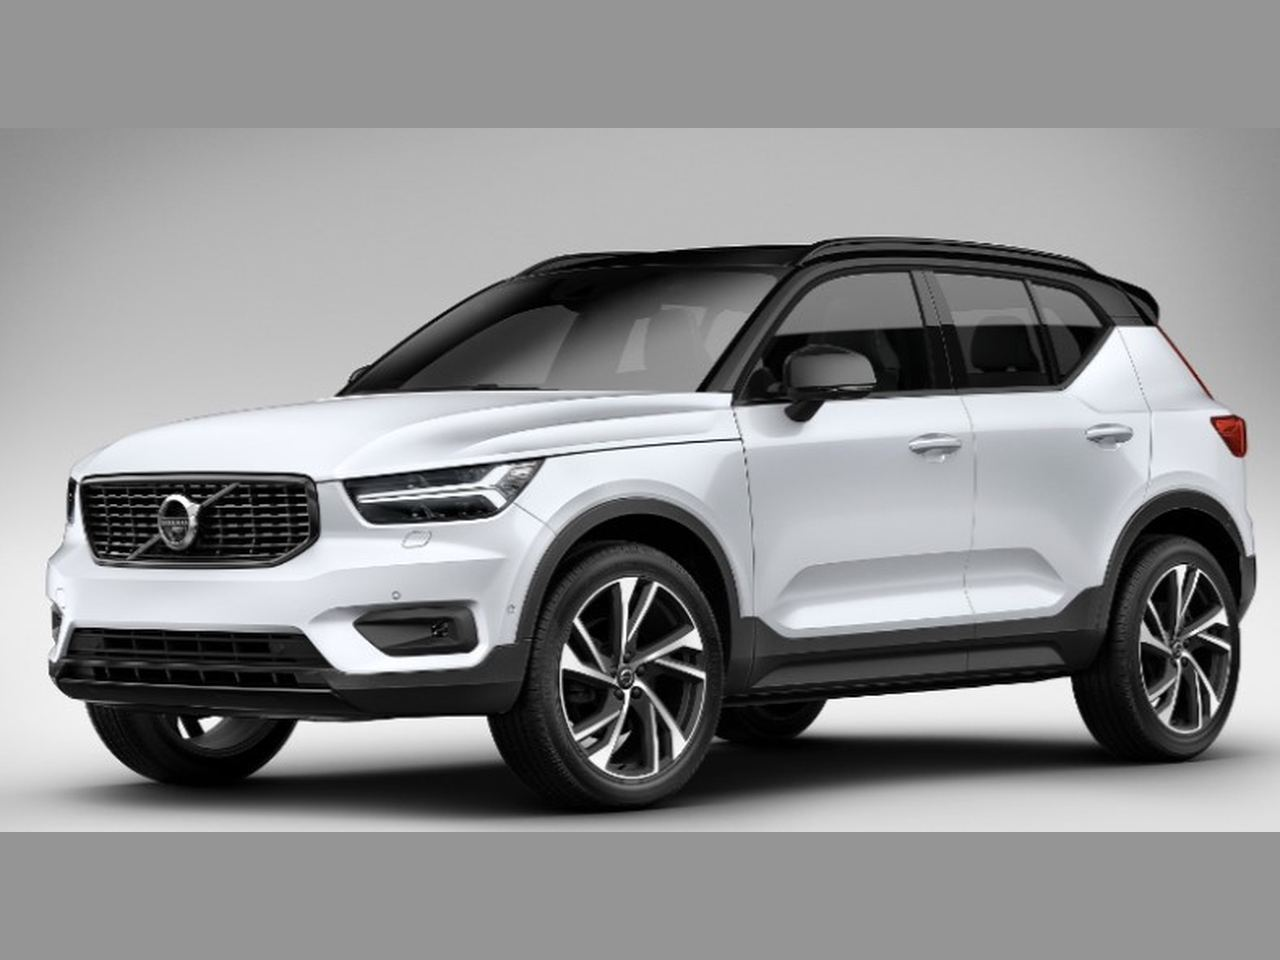
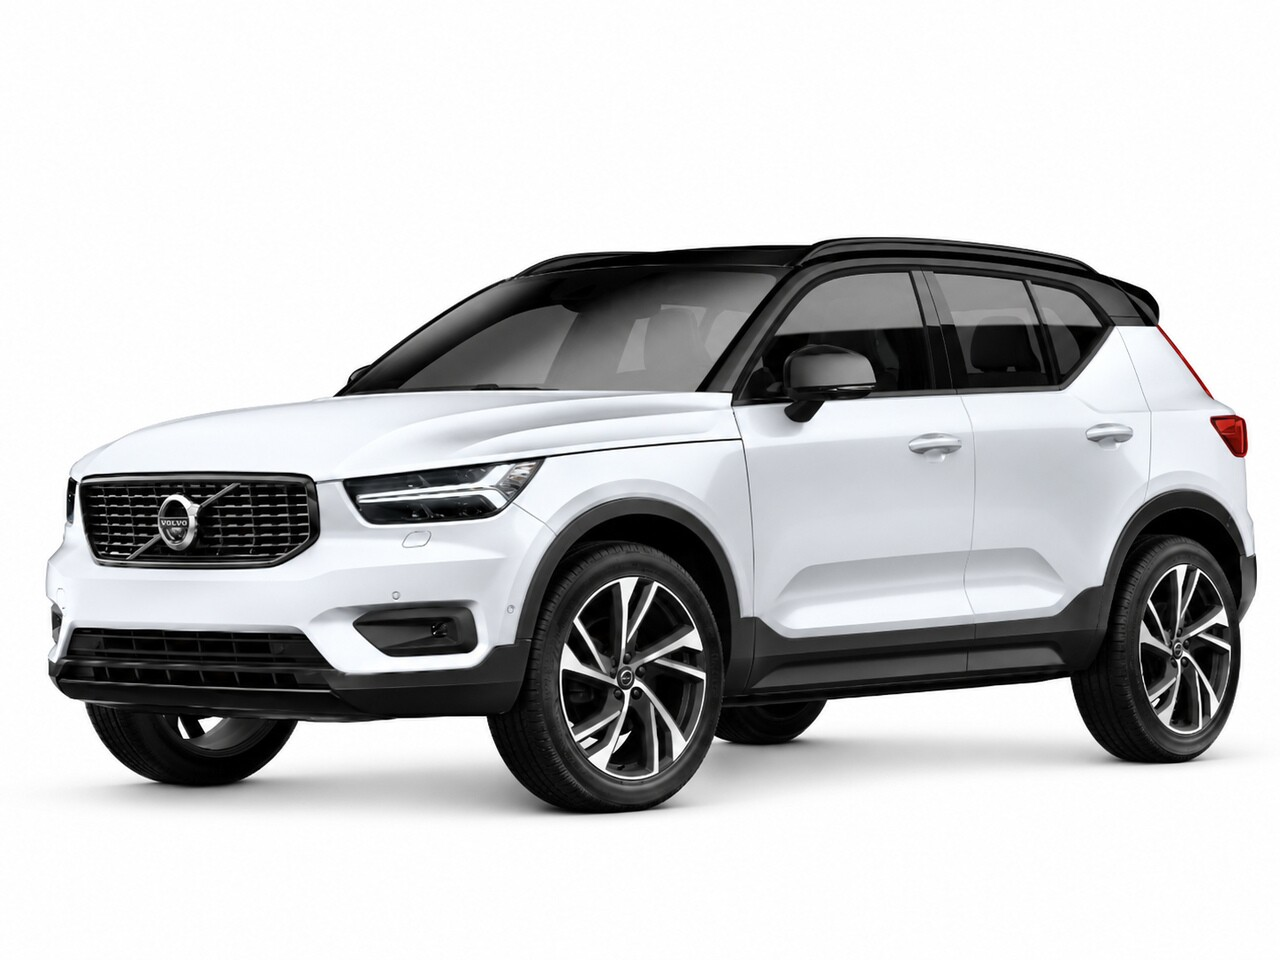
Add files via upload

diff --git a/akadimia-pinakon.html b/akadimia-pinakon.html
@@ -86,27 +86,27 @@
       </div>
       <section class="academy-section" id="academy-vehicles" aria-label="Κατάλογος οχημάτων της Ακαδημίας">
         <div class="academy-grid">
-          <article class="academy-card academy-card-available academy-card-yaris" aria-labelledby="academy-yaris-title"><a class="academy-card-link" href="akadimia-tablo-toyota-yaris-2023.html?v=2" aria-label="Άνοιγμα δραστηριότητας Toyota Yaris 4th gen"><div class="academy-photo"><img src="assets/images/academy-yaris-productshot.webp?v=3" width="1280" height="1000" loading="lazy" decoding="async" alt="Μπλε Toyota Yaris Hybrid 130, εμπρός τρία τέταρτα" /></div><div class="academy-card-info"><h2 id="academy-yaris-title">Toyota Yaris 4th gen</h2><span class="academy-open">Άνοιγμα δραστηριότητας <span aria-hidden="true">→</span></span></div></a></article>
+          <article class="academy-card academy-card-available academy-card-yaris" aria-labelledby="academy-yaris-title"><a class="academy-card-link" href="akadimia-tablo-toyota-yaris-2023.html?v=2" aria-label="Άνοιγμα δραστηριότητας Toyota Yaris — 4η γενιά"><div class="academy-photo"><img src="assets/images/academy-yaris-productshot.webp?v=3" width="1280" height="1000" loading="lazy" decoding="async" alt="Μπλε Toyota Yaris Hybrid 130, εμπρός τρία τέταρτα" /></div><div class="academy-card-info"><h2 id="academy-yaris-title">Toyota Yaris — 4η γενιά</h2><span class="academy-open">Άνοιγμα δραστηριότητας <span aria-hidden="true">→</span></span></div></a></article>
           <article class="academy-card academy-card-available academy-card-golf" aria-labelledby="academy-golf-title">
-            <a class="academy-card-link" href="akadimia-tablo-golf8.html?v=2" aria-label="Άνοιγμα διαδραστικής δραστηριότητας VolksWagen Golf 8th gen">
+            <a class="academy-card-link" href="akadimia-tablo-golf8.html?v=2" aria-label="Άνοιγμα διαδραστικής δραστηριότητας Volkswagen Golf — 8η γενιά">
               <div class="academy-photo"><img src="assets/images/academy-golf-productshot-fixed.webp?v=20261017b" width="1414" height="1000" loading="lazy" decoding="async" alt="Λευκό Volkswagen Golf 8 hatchback, εμπρός τρία τέταρτα" /></div>
-              <div class="academy-card-info"><h2 id="academy-golf-title">VolksWagen Golf 8th gen</h2><span class="academy-open">Άνοιγμα δραστηριότητας <span aria-hidden="true">→</span></span></div>
+              <div class="academy-card-info"><h2 id="academy-golf-title">Volkswagen Golf — 8η γενιά</h2><span class="academy-open">Άνοιγμα δραστηριότητας <span aria-hidden="true">→</span></span></div>
             </a>
           </article>
 <article class="academy-card academy-card-available academy-card-honda" aria-labelledby="academy-honda-title">
-            <a class="academy-card-link" href="akadimia-tablo-honda-civic-2018.html?v=2" aria-label="Άνοιγμα δραστηριότητας Honda Civic 10th gen">
-              <div class="academy-photo"><img src="assets/images/academy-honda-civic-user.jpg?v=1" width="581" height="284" loading="lazy" decoding="async" alt="Λευκό Honda Civic 10ης γενιάς sedan, εμπρός τρία τέταρτα" /></div>
-              <div class="academy-card-info"><h2 id="academy-honda-title">Honda Civic 10th gen</h2><span class="academy-open">Άνοιγμα δραστηριότητας <span aria-hidden="true">→</span></span></div>
+            <a class="academy-card-link" href="akadimia-tablo-honda-civic-2018.html?v=2" aria-label="Άνοιγμα δραστηριότητας Honda Civic — 10η γενιά">
+              <div class="academy-photo"><img src="assets/images/academy-honda-civic-user.jpg?v=20261020" width="1280" height="626" loading="lazy" decoding="async" alt="Λευκό Honda Civic 10ης γενιάς sedan, εμπρός τρία τέταρτα" /></div>
+              <div class="academy-card-info"><h2 id="academy-honda-title">Honda Civic — 10η γενιά</h2><span class="academy-open">Άνοιγμα δραστηριότητας <span aria-hidden="true">→</span></span></div>
             </a>
           </article>
           <article class="academy-card academy-card-available academy-card-clio" aria-labelledby="academy-clio-title">
-            <a class="academy-card-link" href="akadimia-tablo-renault-clio-2024.html?v=2" aria-label="Άνοιγμα δραστηριότητας Renault Clio 5th gen">
+            <a class="academy-card-link" href="akadimia-tablo-renault-clio-2024.html?v=2" aria-label="Άνοιγμα δραστηριότητας Renault Clio — 5η γενιά">
               <div class="academy-photo"><img src="assets/images/academy-clio-productshot.webp?v=3" width="1280" height="1000" loading="lazy" decoding="async" alt="Μεταλλικό γκρι Renault Clio σε λευκό φόντο, ολόκληρο το αυτοκίνητο σε λήψη εμπρός τρία τέταρτα" /></div>
-              <div class="academy-card-info"><h2 id="academy-clio-title">Renault Clio 5th gen</h2><span class="academy-open">Άνοιγμα δραστηριότητας <span aria-hidden="true">→</span></span></div>
+              <div class="academy-card-info"><h2 id="academy-clio-title">Renault Clio — 5η γενιά</h2><span class="academy-open">Άνοιγμα δραστηριότητας <span aria-hidden="true">→</span></span></div>
             </a>
           </article>
-          <article class="academy-card academy-card-available academy-card-mercedes" aria-labelledby="academy-mercedes-title"><a class="academy-card-link" href="akadimia-tablo-mercedes-w206-2023.html?v=2" aria-label="Άνοιγμα δραστηριότητας Mercedes Benz C class 5th gen"><div class="academy-photo"><img src="assets/images/academy-mercedes-w206-correct.webp?v=2" width="1280" height="1000" style="object-fit:contain;object-position:center" loading="lazy" decoding="async" alt="Ασημί Mercedes-Benz C-Class sedan, εμπρός τρία τέταρτα" /></div><div class="academy-card-info"><h2 id="academy-mercedes-title">Mercedes Benz C class 5th gen</h2><span class="academy-open">Άνοιγμα δραστηριότητας <span aria-hidden="true">→</span></span></div></a></article>
-          <article class="academy-card academy-card-available academy-card-volvo" aria-labelledby="academy-volvo-title"><a class="academy-card-link" href="akadimia-tablo-volvo-xc40-2025.html?v=20261019photo" aria-label="Άνοιγμα δραστηριότητας Volvo XC40 1st gen"><div class="academy-photo"><img src="assets/images/academy-volvo-xc40-productshot.jpg?v=20261019full" width="1280" height="960" style="object-fit:contain;object-position:center;background:#959595" loading="lazy" decoding="async" alt="Λευκό Volvo XC40, εμπρός τρία τέταρτα" /></div><div class="academy-card-info"><h2 id="academy-volvo-title">Volvo XC40 1st gen</h2><span class="academy-open">Άνοιγμα δραστηριότητας <span aria-hidden="true">→</span></span></div></a></article>
+          <article class="academy-card academy-card-available academy-card-mercedes" aria-labelledby="academy-mercedes-title"><a class="academy-card-link" href="akadimia-tablo-mercedes-w206-2023.html?v=2" aria-label="Άνοιγμα δραστηριότητας Mercedes-Benz C-Class — 5η γενιά"><div class="academy-photo"><img src="assets/images/academy-mercedes-w206-correct.webp?v=2" width="1280" height="1000" style="object-fit:contain;object-position:center" loading="lazy" decoding="async" alt="Ασημί Mercedes-Benz C-Class sedan, εμπρός τρία τέταρτα" /></div><div class="academy-card-info"><h2 id="academy-mercedes-title">Mercedes-Benz C-Class — 5η γενιά</h2><span class="academy-open">Άνοιγμα δραστηριότητας <span aria-hidden="true">→</span></span></div></a></article>
+          <article class="academy-card academy-card-available academy-card-volvo" aria-labelledby="academy-volvo-title"><a class="academy-card-link" href="akadimia-tablo-volvo-xc40-2025.html?v=20261019photo" aria-label="Άνοιγμα δραστηριότητας Volvo XC40 — 1η γενιά"><div class="academy-photo"><img src="assets/images/academy-volvo-xc40-productshot.jpg?v=20261020" width="1280" height="960" style="object-fit:contain;object-position:center;background:#fff" loading="lazy" decoding="async" alt="Λευκό Volvo XC40, εμπρός τρία τέταρτα" /></div><div class="academy-card-info"><h2 id="academy-volvo-title">Volvo XC40 — 1η γενιά</h2><span class="academy-open">Άνοιγμα δραστηριότητας <span aria-hidden="true">→</span></span></div></a></article>
           <!-- Νέα οχήματα: προσθέτουμε μία νέα <article class="academy-card"> εδώ.
                Οι στήλες προσαρμόζονται αυτόματα, δεν αλλάζει η αρχική σελίδα. -->
         </div>
@@ -118,3 +118,4 @@
   <script>document.getElementById('academy-year').textContent=new Date().getFullYear();</script>
 </body>
 </html>
+
